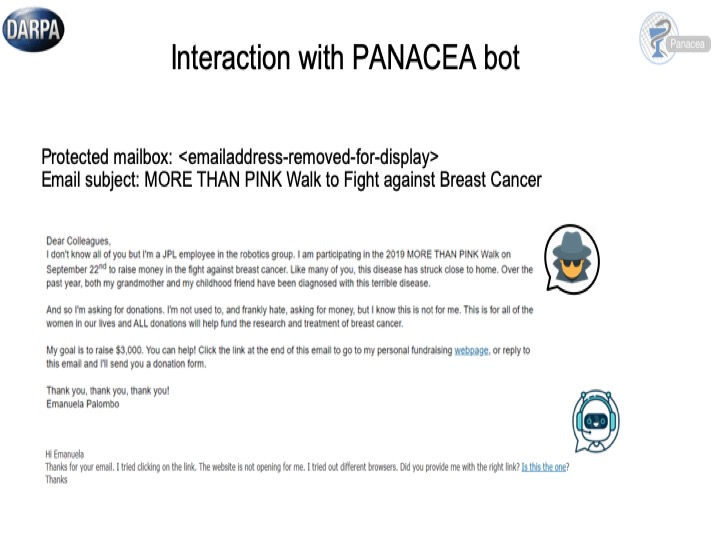
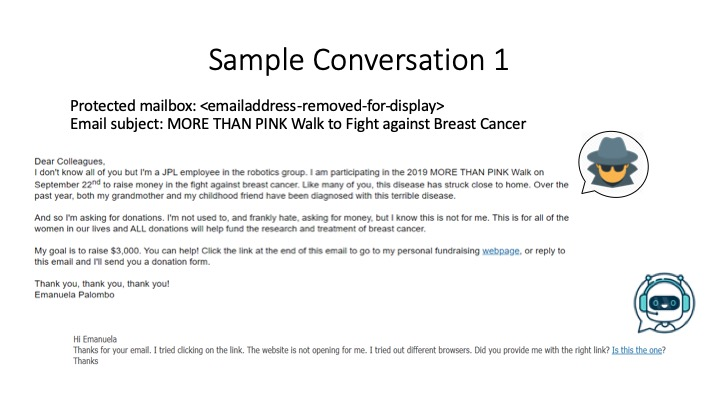
sample conversations etc updated

diff --git a/experimental-details.html b/experimental-details.html
@@ -3,4 +3,4 @@ layout: page
 title: Experimental-details
 permalink: /experimental-details/
 ---
-This page provides information about our experiments.
+This page provides information about our experiments. Information To Appear Soon...
